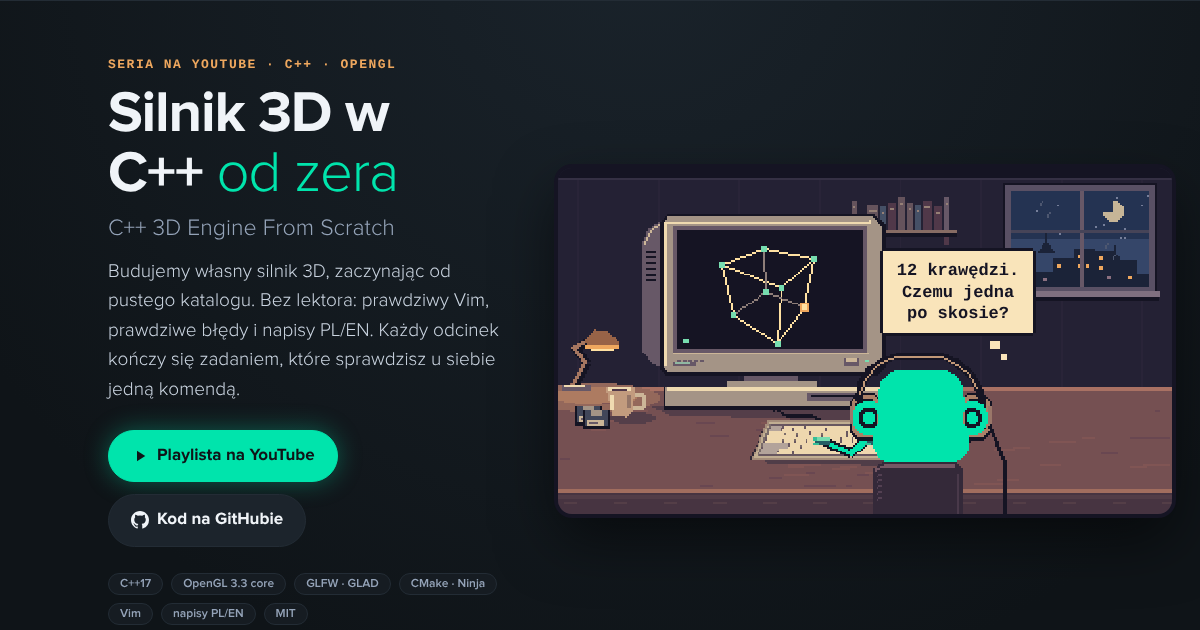
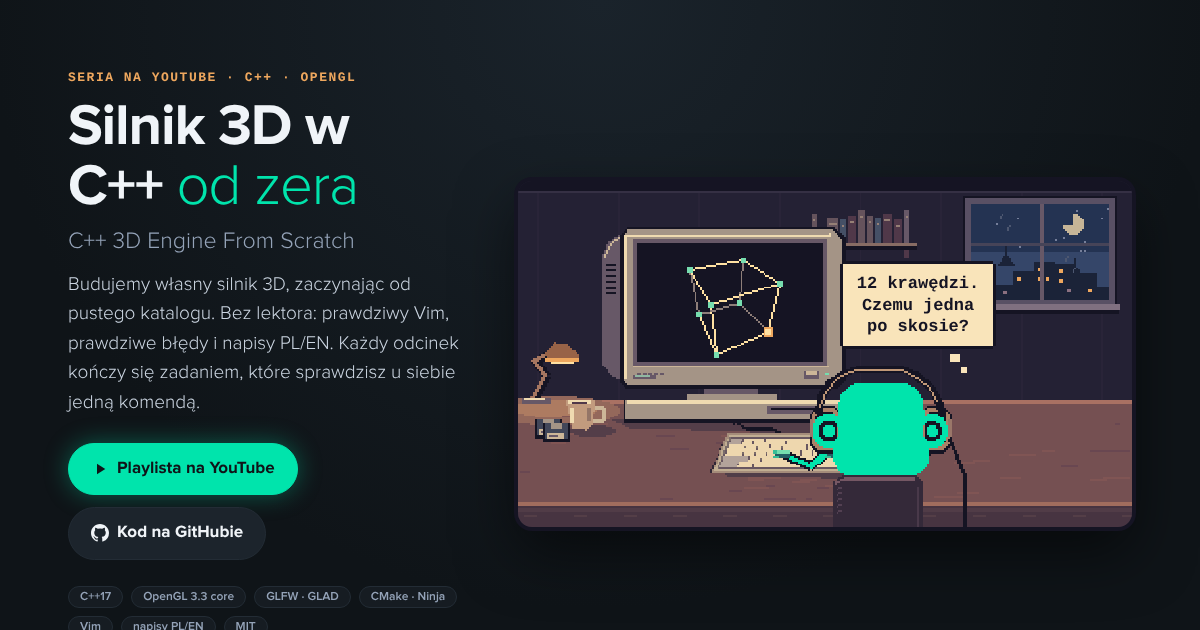
docs: hide the lone season tab, note how to add an episode
Claude-Session: https://claude.ai/code/session_019xAEPNyU5f4hf8ex6peDXj

diff --git a/docs/index.html b/docs/index.html
@@ -102,6 +102,7 @@ h2{font-size:32px;margin:0 0 8px;letter-spacing:-.6px;font-weight:700}
 .term .g{color:#76ddaf}
 
 /* episodes */
+.seasons[hidden]{display:none}
 .seasons{display:flex;gap:8px;margin:0 0 18px;flex-wrap:wrap}
 .seasons button{background:var(--panel);border:1px solid var(--panel-border);color:var(--muted);border-radius:999px;padding:8px 16px;font:700 15px var(--sans);cursor:pointer}
 .seasons button span{margin-left:8px;font-weight:300;font-size:13px}

diff --git a/docs/README.md b/docs/README.md
@@ -1,0 +1,11 @@
+# Strona serii
+
+Statyczna strona dla GitHub Pages (`main` / `/docs`): https://gamedevpl.github.io/silnik3d-od-zera/
+
+- `series.js`: wszystkie dane. Nowy odcinek to jeden wpis w `episodes`, nowy sezon to kolejny obiekt w `seasons` (zakładki pojawiają się od dwóch sezonów). Wpis bez `video` wyświetla się jako „W planie”.
+- `app.js`: język PL/EN, zakładki, wiersze odcinków. Film zastępuje kartę premiery, gdy minie `at`.
+- `assistant.js`: „Zapytaj o serię”. Działa na modelu wbudowanym w Chrome przez `vendor/genaicode-browser.js`, bez serwera. Ładuje się tylko tam, gdzie przeglądarka ma ten model.
+- `subs.js`: angielskie napisy jako `[sekunda, tekst]`, z plików `.en.srt`. Po dodaniu odcinka dopisz jego napisy pod kluczem `e03` itd.
+- `vendor/genaicode-browser.js`: `npx esbuild <genaicode>/src/browser.ts --bundle --format=esm --minify --target=es2022`.
+
+Podgląd lokalnie: `python3 -m http.server -d docs 8000`.
